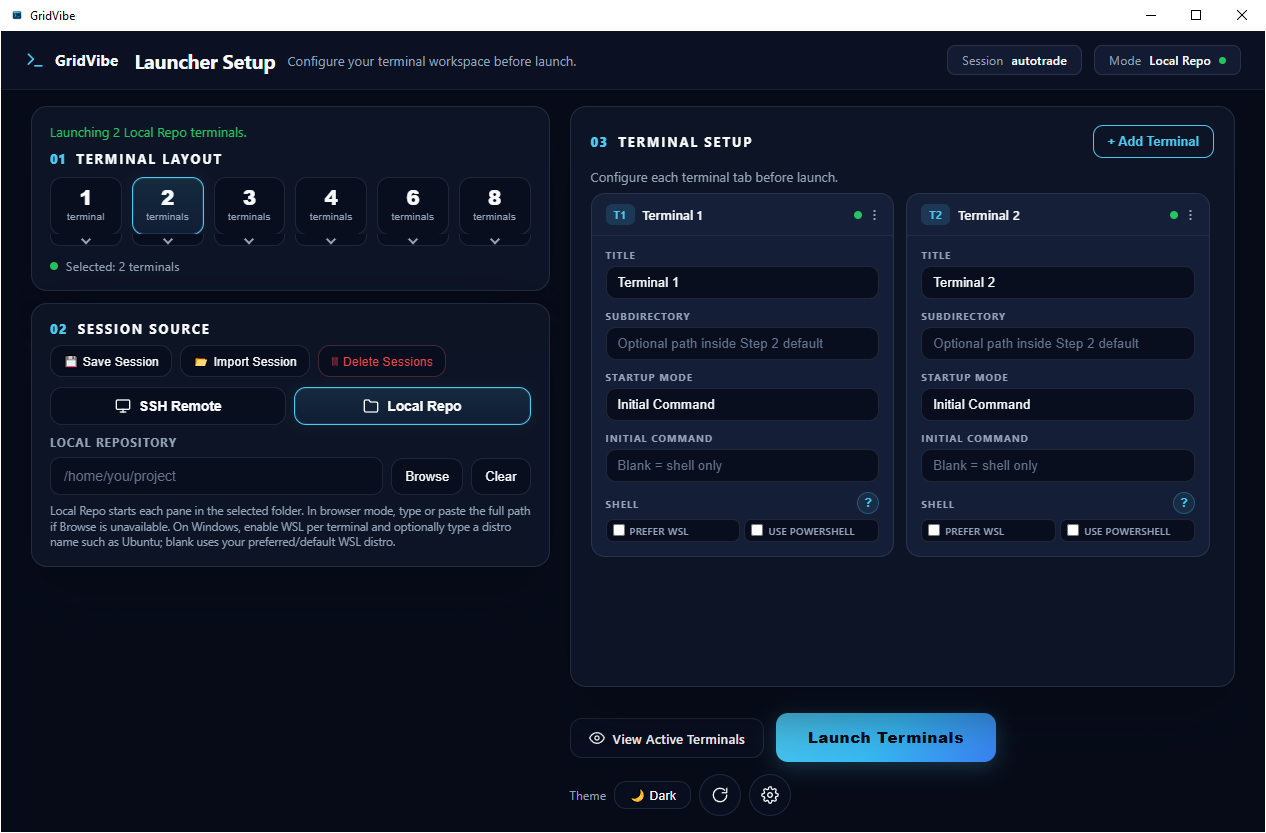
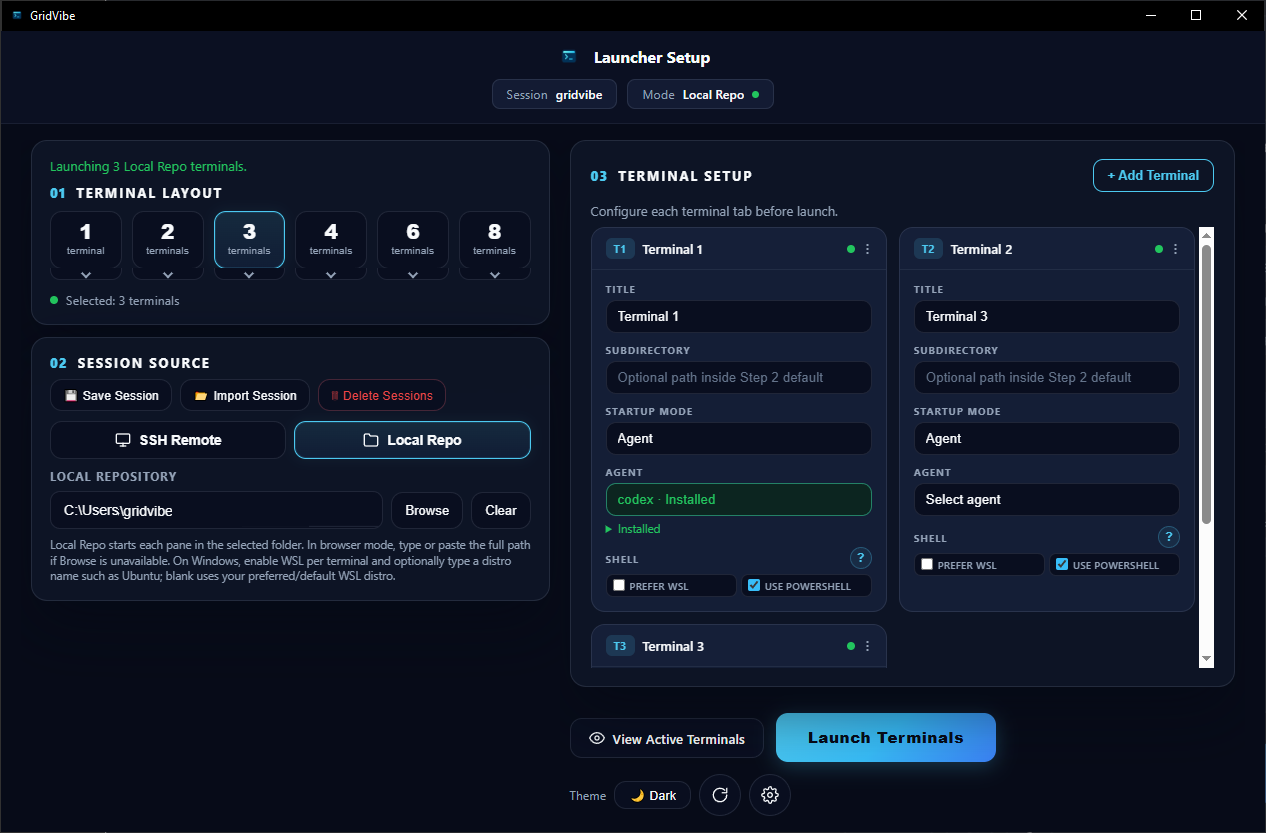
feat: update testing issues documentation with new issue details and reproduction steps

diff --git a/docs/testing_issues.md b/docs/testing_issues.md
@@ -1,7 +1,35 @@
 # GridVibe Testing Issues
-Last updated: 2026-07-03
+Last updated: 2026-07-04
 
 ## Open Issues
+
+### Issue ID: ISSUE-2026-009
+- Title: Native title bar theme waits for refocus to repaint
+- Priority: Cosmetic
+- Status: Open
+- Area: `web/webview_launcher.py`, `templates/index.html`, `templates/terminals.html`, `tests/test_webview_launcher.py`
+- Assignee: Unassigned
+- Tags: `launcher`, `session`, `windows`, `ui`, `theme`, `tests`
+- Reported: 2026-07-04
+
+Description:
+In native pywebview mode, the resizable Windows title bar on both the launcher and session windows can lag behind GridVibe's light/dark theme switch. The app content and title text update to the selected theme, but the native frame background can remain in the previous black or white color until the user clicks away from the window or refocuses it. The practical impact is a visibly mismatched title bar during normal theme toggling, with a manual blur/refocus workaround.
+
+Steps to reproduce:
+1. Start GridVibe in native pywebview mode on Windows so the launcher or session window uses the resizable native frame.
+2. Toggle GridVibe between light and dark display modes from the launcher window or the sessions window.
+3. Observe the native top bar while the window remains focused, then click away from the window or refocus it.
+
+Expected behavior:
+The native window title bar background, border, and title text should repaint immediately to match the resolved GridVibe light or dark theme while the launcher or session window remains focused.
+
+Actual behavior / logs:
+User report: switching light/dark mode updates the window title area text color, but the native frame top-bar background stays in the previous black or white box until blur/refocus. Code inspection confirms both `templates/index.html` and `templates/terminals.html` call `bridge.set_native_theme(resolvedTheme)` during theme changes, and `web/webview_launcher.py` stores `_native_theme` before applying Windows DWM caption, text, and border attributes to the registered launcher and session windows. Existing `tests/test_webview_launcher.py` coverage verifies that `_apply_windows_native_frame_theme()` calls the frame refresh helper and that `set_native_theme()` targets both windows, but it does not cover the active-window repaint/refocus behavior reported here.
+
+### Proposed solution:
+Investigate the Windows native-frame refresh path in `web/webview_launcher.py`, especially `_refresh_windows_native_frame()`, `_refresh_native_form()`, and `_run_on_native_ui_thread()`, to determine why active resizable frames do not repaint immediately after `DwmSetWindowAttribute`. Consider adding or adjusting non-client-area invalidation calls, ordering the DWM dark-mode and color updates differently, refreshing after the pywebview/WebView2 window is shown and active, or briefly forcing a native frame redraw without stealing focus. Keep launcher and session window handling shared through `GridVibeApi.set_native_theme()`. Add focused unit coverage around any new refresh helper behavior in `tests/test_webview_launcher.py`, and manually verify both `templates/index.html` and `templates/terminals.html` in native Windows mode because the final repaint symptom depends on the OS window manager.
+
+## Closed Issues
 
 ### Issue ID: ISSUE-2026-007
 - Title: Opening binary files can freeze explorer mode
@@ -32,8 +60,6 @@ Harden binary preview handling in both `web/api.py` and `templates/terminals.htm
 
 Resolution:
 Explorer file editor mode now only accepts known preview/source formats from the existing language and filename maps. Unsupported extensions are rejected before preview decoding, known formats are checked for NUL bytes, invalid UTF-8, and excessive control bytes, and SSH/local paths share the same validation. The frontend keeps the directory listing active on failed opens and prepends a non-blocking error notice instead of leaving the pane stuck on an opening message. Tests cover unsupported local and remote formats, non-NUL binary-like content, and the directory-preserving client path.
-
-## Closed Issues
 
 ### Issue ID: ISSUE-2026-005
 - Title: Explorer file find blocks terminal UI on large previews